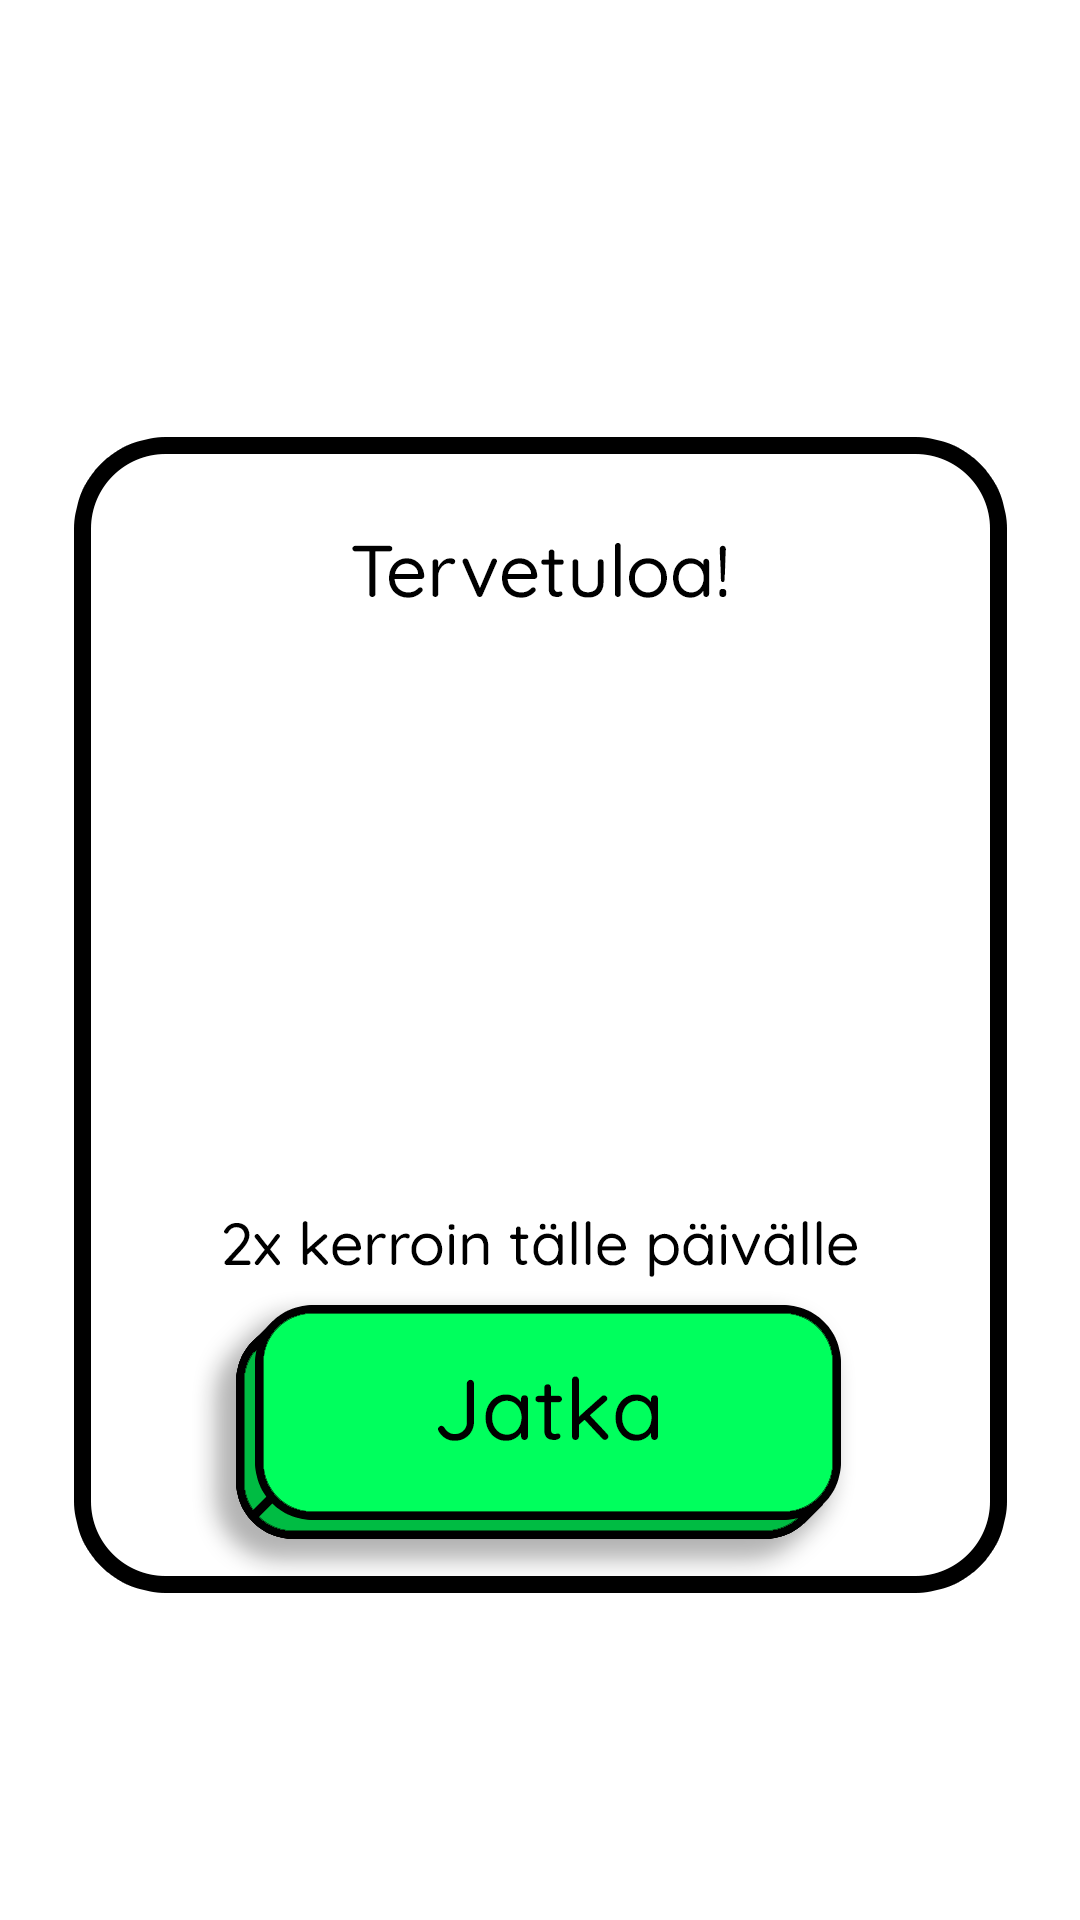
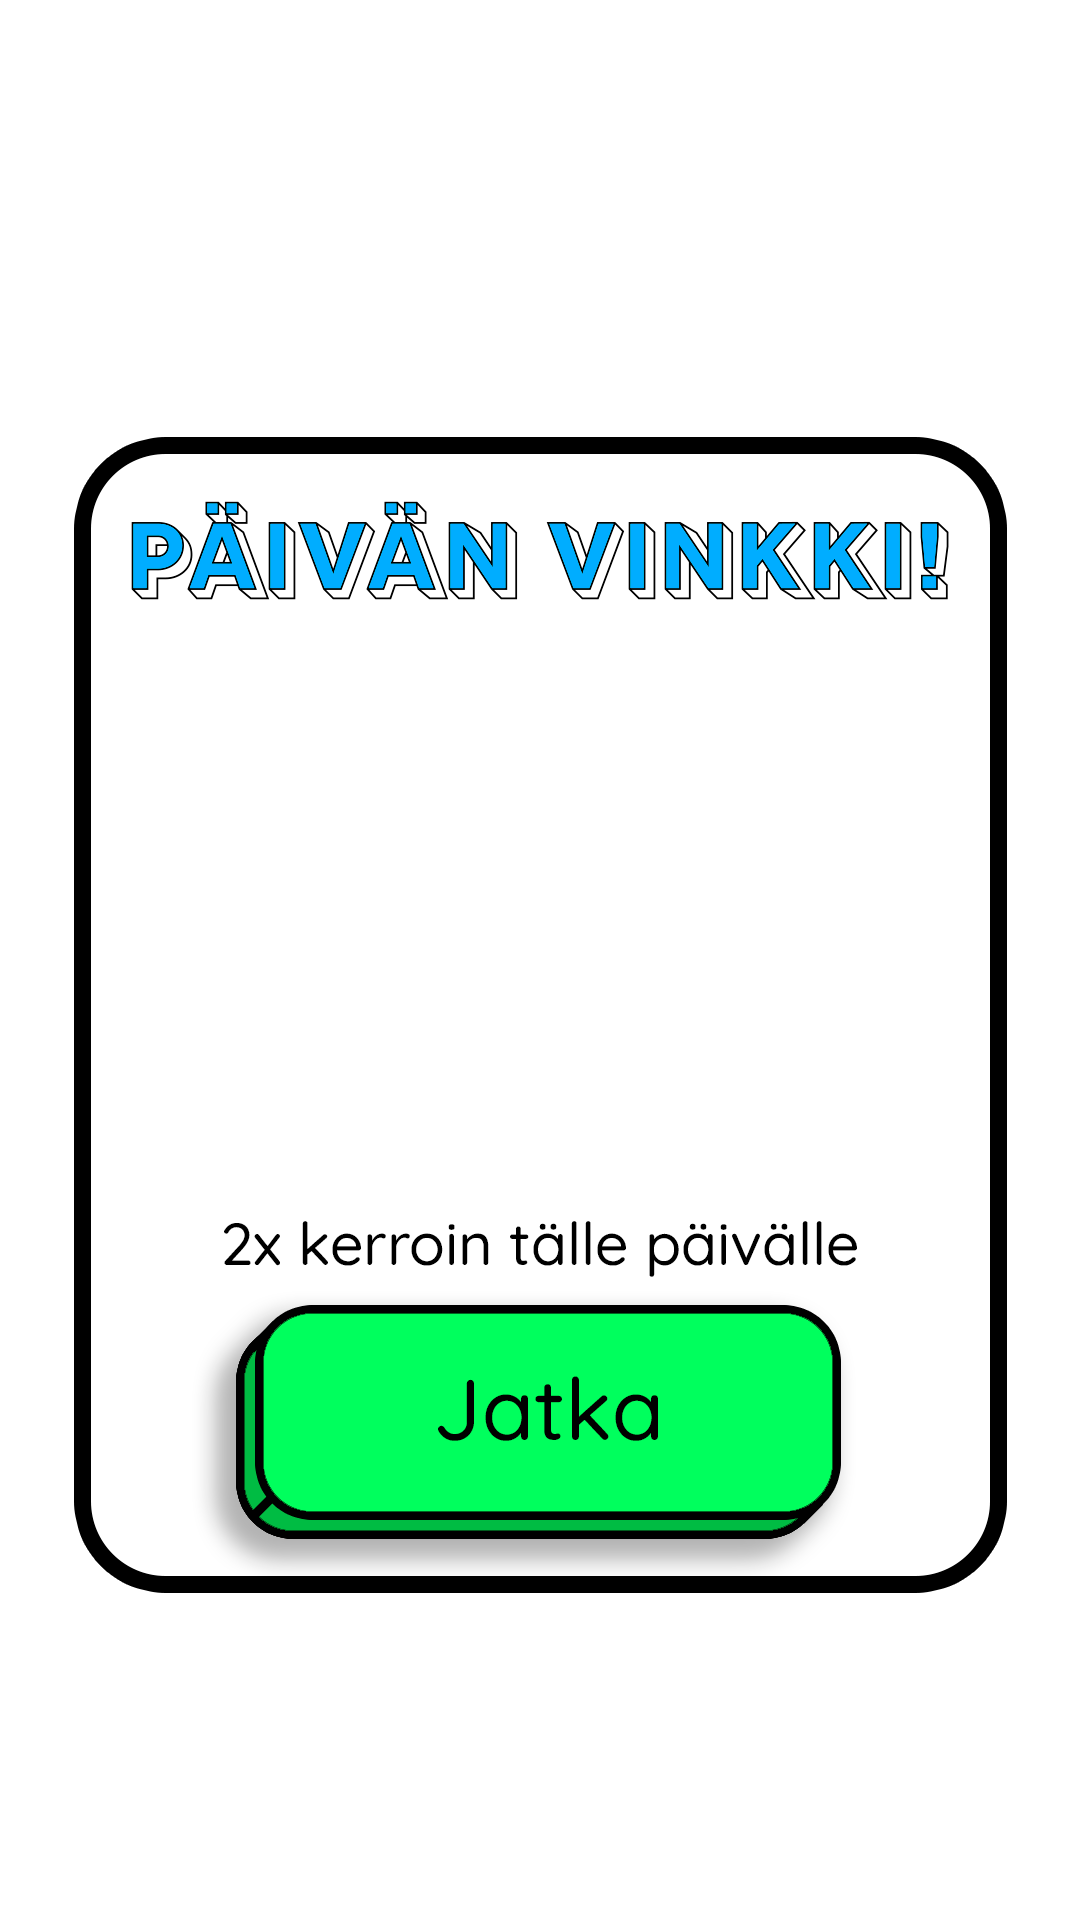
Added emotion tips (fully working)

Changed region(s): [[0.1222, 0.25, 0.8861, 0.3125]]

diff --git a/core/src/fi/tuni/tamk/tiko/depressionaut/DailyBonus.java b/core/src/fi/tuni/tamk/tiko/depressionaut/DailyBonus.java
@@ -7,6 +7,7 @@ import com.badlogic.gdx.files.FileHandle;
 import com.badlogic.gdx.graphics.Camera;
 import com.badlogic.gdx.graphics.OrthographicCamera;
 import com.badlogic.gdx.graphics.Texture;
+import com.badlogic.gdx.graphics.g2d.BitmapFont;
 import com.badlogic.gdx.graphics.g2d.SpriteBatch;
 import com.badlogic.gdx.math.MathUtils;
 import com.badlogic.gdx.math.Rectangle;
@@ -28,6 +29,10 @@ public class DailyBonus {
 
     public Preferences prefs = Gdx.app.getPreferences("general");
 
+    public BitmapFont font;
+
+    public String todaysTip;
+
 
 
     public GameClock clock;
@@ -36,6 +41,9 @@ public class DailyBonus {
     public DailyBonus() {
 
         continueButton = new Rectangle(230, 380, 620, 240);
+
+        font = new BitmapFont(Gdx.files.internal("UI/QuicksandASCII.fnt"));
+
         txtToArray();
         randomTip();
 
@@ -58,7 +66,7 @@ public class DailyBonus {
 
     public void randomTip() {
         int randomNum = MathUtils.random(emotionTips.length - 1);
-        System.out.println(emotionTips[randomNum]);
+        todaysTip = emotionTips[randomNum];
     }
 
     public void drawWindow(SpriteBatch batch) {
@@ -77,6 +85,18 @@ public class DailyBonus {
                     batch.draw(noBonusFI, 0, 0);
                 }
             }
+            if(todaysTip.length() <= 85) {
+                font.getData().setScale(2.5f, 2.5f); //1.8 = 192 2.5 = 85 1.5 = 261
+                font.draw(batch, todaysTip, 150, 1250, 780, 1, true);
+            } else if (todaysTip.length() <= 192) {
+                font.getData().setScale(1.8f, 1.8f); //1.8 = 192 2.5 = 85 1.5 = 261
+                font.draw(batch, todaysTip, 100, 1275, 880, 1, true);
+            } else {
+                font.getData().setScale(1.5f, 1.5f); //1.8 = 192 2.5 = 85 1.5 = 261
+                font.draw(batch, todaysTip, 100, 1290, 880, 1, true);
+            }
+
+
         }
 
     }
